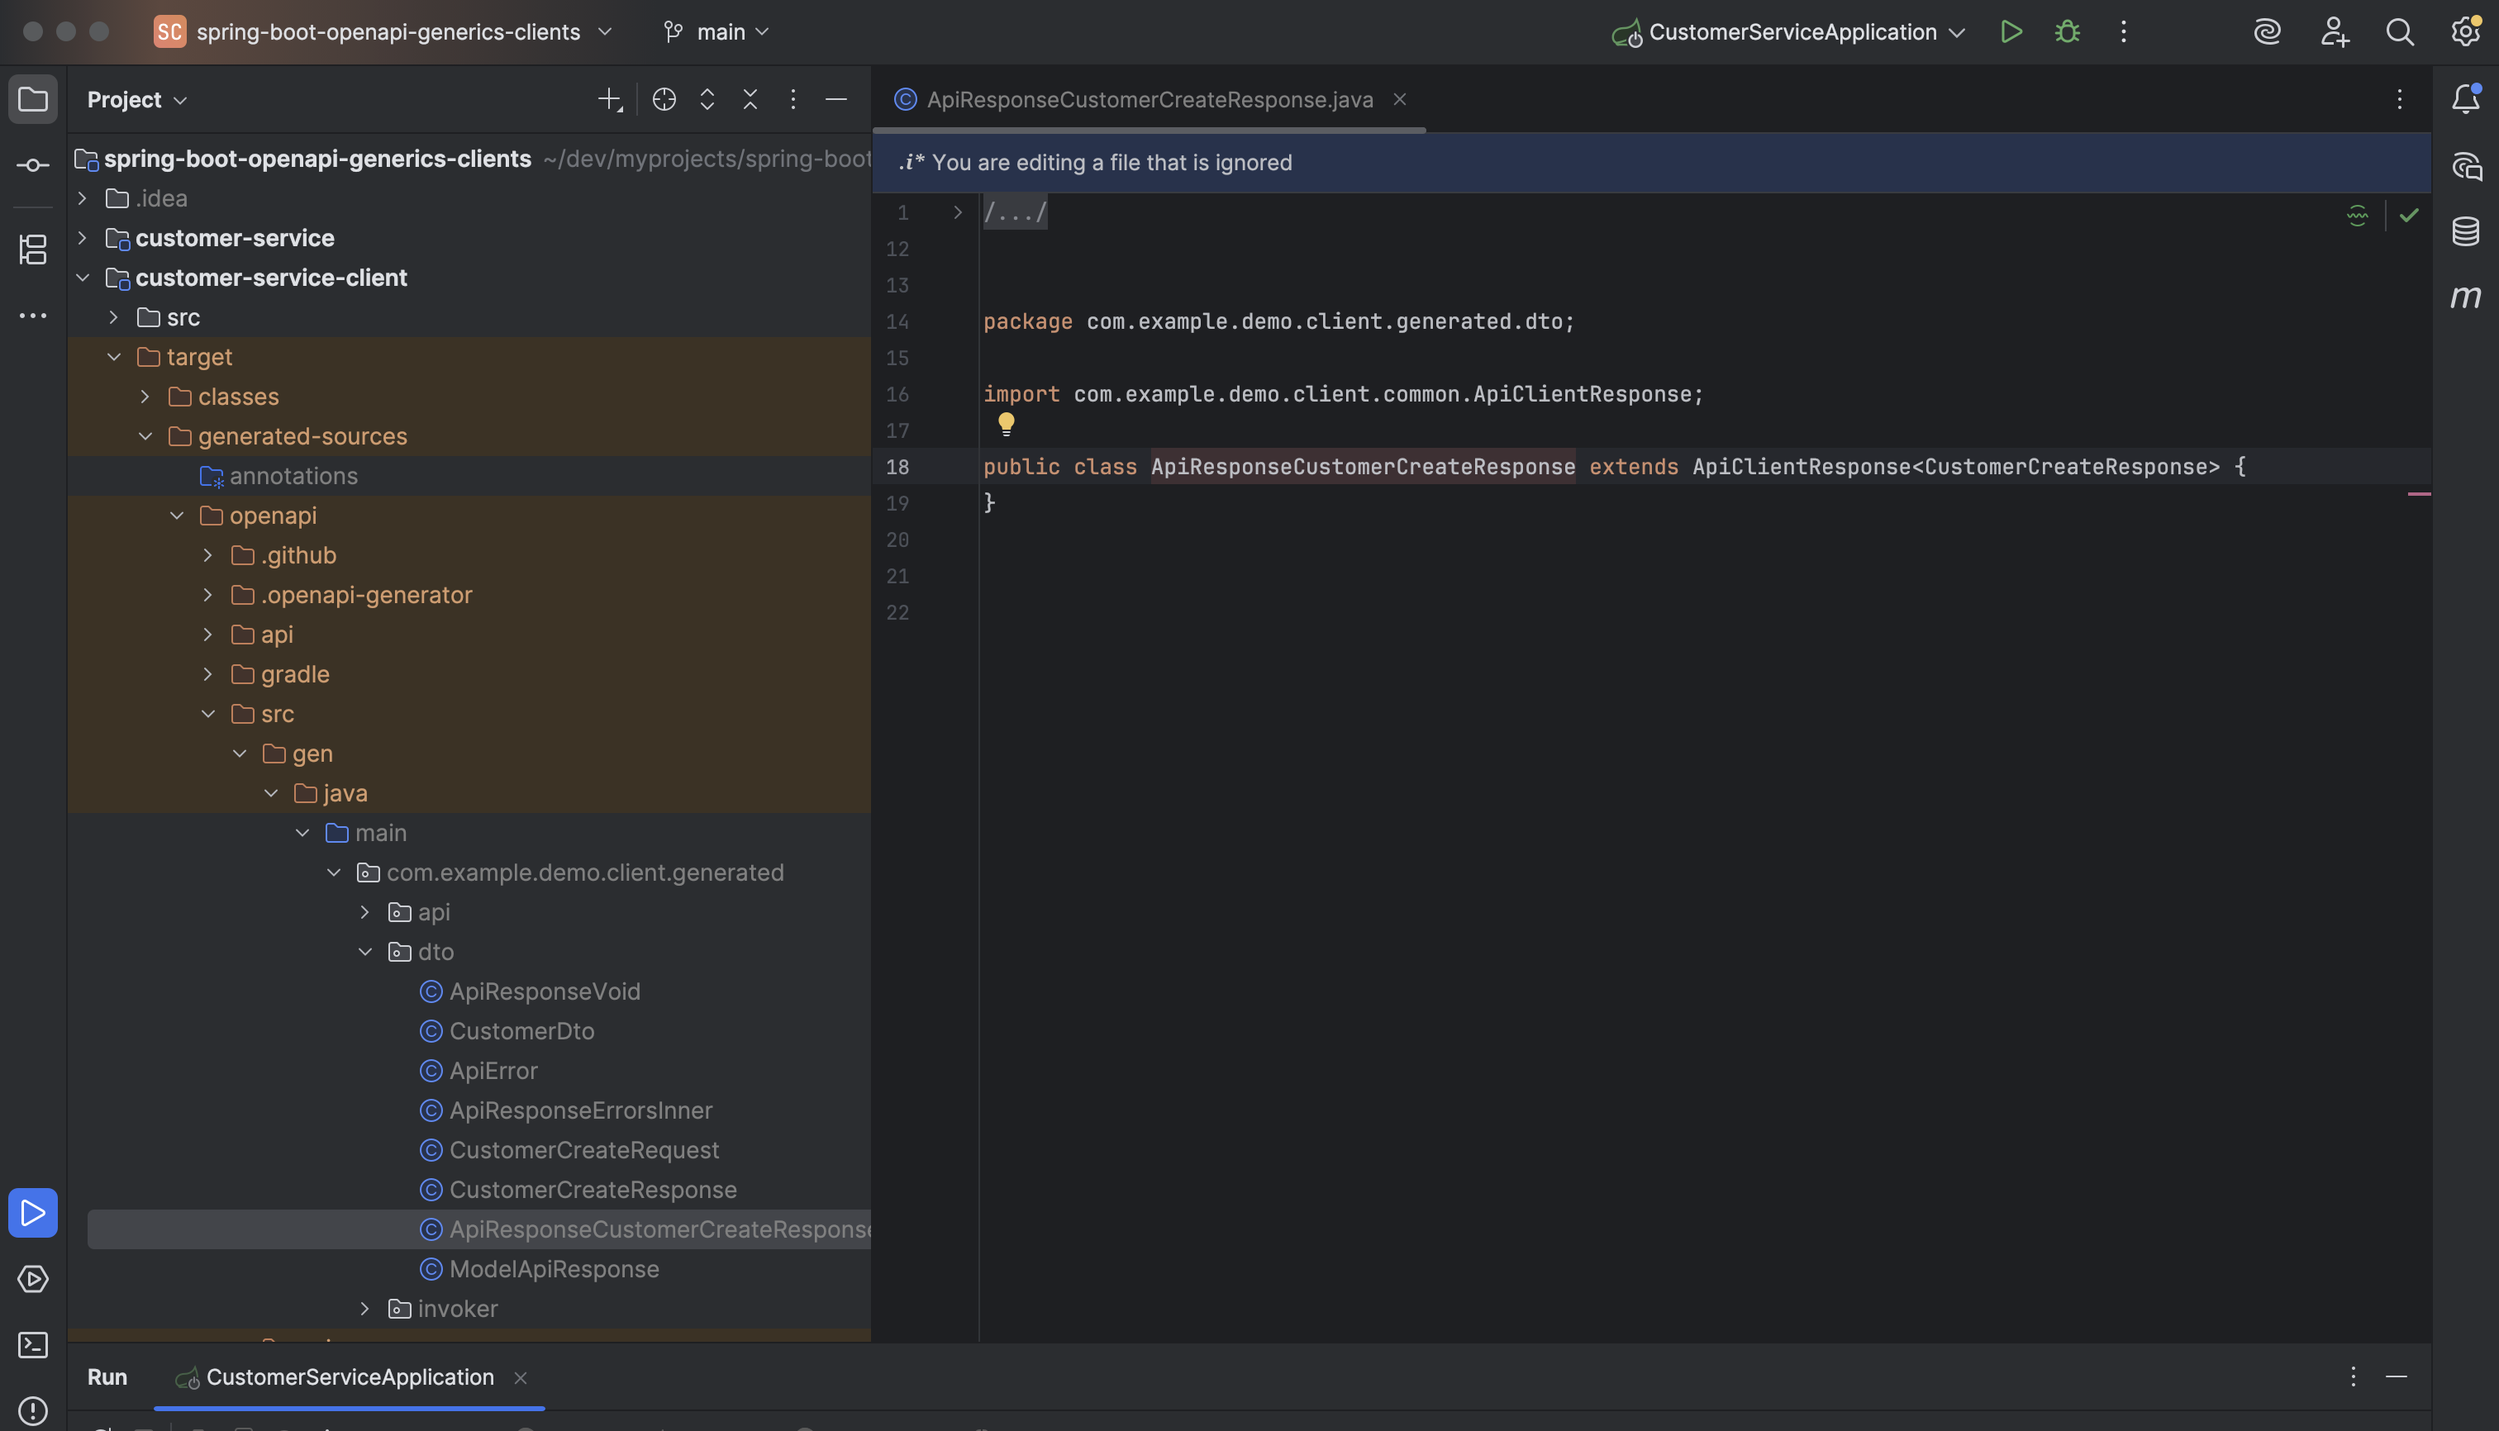
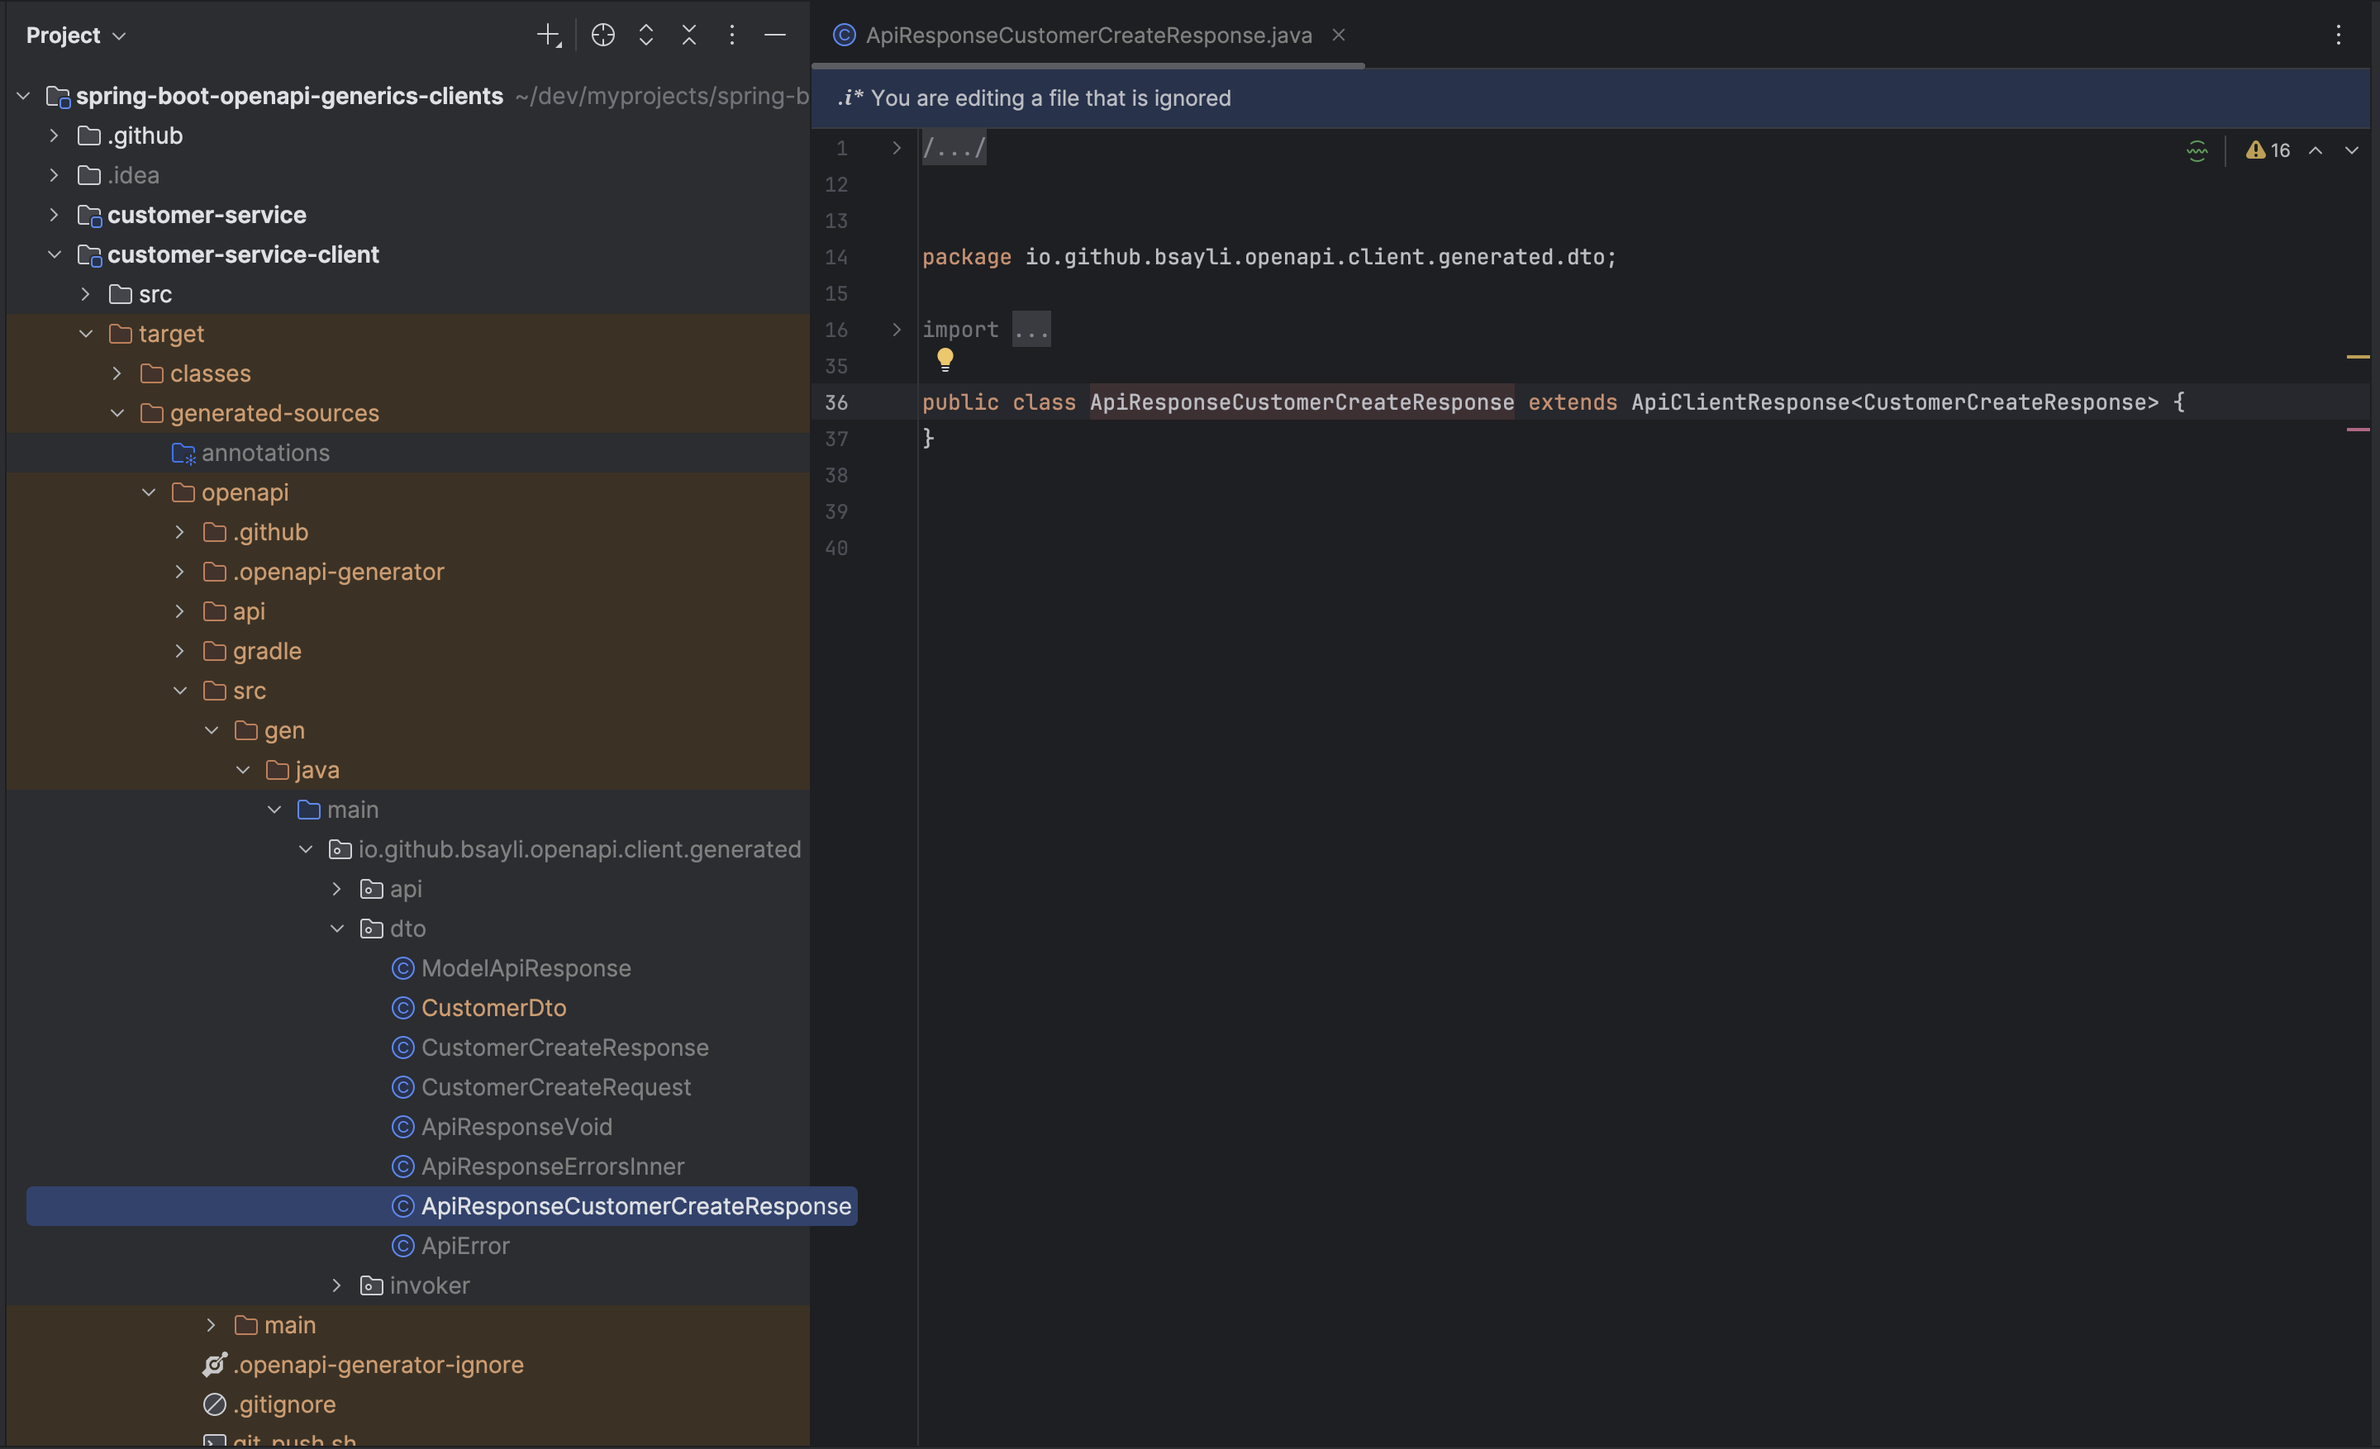
refactor(client): migrate to io.github.bsayli namespace and update docs
- Moved all packages from com.example.demo.client → io.github.bsayli.openapi.client
- Updated pom.xml with new groupId and OpenAPI generator package paths
- Adjusted api_wrapper.mustache to use FQN base class
- Fixed OpenAPI spec (201 response, server URL) for alignment with demo service
- Updated README.md to reflect new package structure and usage examples
- Replaced generated-client-wrapper.png with updated image reflecting new namespace

diff --git a/customer-service-client/src/main/java/io/github/bsayli/openapi/client/adapter/impl/CustomerClientAdapterImpl.java b/customer-service-client/src/main/java/io/github/bsayli/openapi/client/adapter/impl/CustomerClientAdapterImpl.java
@@ -1,10 +1,10 @@
-package com.example.demo.client.adapter.impl;
+package io.github.bsayli.openapi.client.adapter.impl;
 
-import com.example.demo.client.adapter.CustomerClientAdapter;
-import com.example.demo.client.common.ApiClientResponse;
-import com.example.demo.client.generated.api.CustomerControllerApi;
-import com.example.demo.client.generated.dto.CustomerCreateRequest;
-import com.example.demo.client.generated.dto.CustomerCreateResponse;
+import io.github.bsayli.openapi.client.adapter.CustomerClientAdapter;
+import io.github.bsayli.openapi.client.common.ApiClientResponse;
+import io.github.bsayli.openapi.client.generated.api.CustomerControllerApi;
+import io.github.bsayli.openapi.client.generated.dto.CustomerCreateRequest;
+import io.github.bsayli.openapi.client.generated.dto.CustomerCreateResponse;
 import org.springframework.stereotype.Service;
 
 @Service

diff --git a/customer-service-client/src/test/java/io/github/bsayli/openapi/client/adapter/CustomerClientIT.java b/customer-service-client/src/test/java/io/github/bsayli/openapi/client/adapter/CustomerClientIT.java
@@ -1,8 +1,8 @@
-package com.example.demo.client.adapter;
+package io.github.bsayli.openapi.client.adapter;
 
-import com.example.demo.client.adapter.config.CustomerApiClientConfig;
-import com.example.demo.client.generated.api.CustomerControllerApi;
-import com.example.demo.client.generated.dto.CustomerCreateRequest;
+import io.github.bsayli.openapi.client.adapter.config.CustomerApiClientConfig;
+import io.github.bsayli.openapi.client.generated.api.CustomerControllerApi;
+import io.github.bsayli.openapi.client.generated.dto.CustomerCreateRequest;
 import okhttp3.mockwebserver.MockResponse;
 import okhttp3.mockwebserver.MockWebServer;
 import org.junit.jupiter.api.AfterAll;

diff --git a/customer-service-client/src/main/java/io/github/bsayli/openapi/client/adapter/config/CustomerApiClientConfig.java b/customer-service-client/src/main/java/io/github/bsayli/openapi/client/adapter/config/CustomerApiClientConfig.java
@@ -1,7 +1,7 @@
-package com.example.demo.client.adapter.config;
+package io.github.bsayli.openapi.client.adapter.config;
 
-import com.example.demo.client.generated.api.CustomerControllerApi;
-import com.example.demo.client.generated.invoker.ApiClient;
+import io.github.bsayli.openapi.client.generated.api.CustomerControllerApi;
+import io.github.bsayli.openapi.client.generated.invoker.ApiClient;
 import org.springframework.beans.factory.annotation.Value;
 import org.springframework.context.annotation.Bean;
 import org.springframework.context.annotation.Configuration;

diff --git a/customer-service-client/src/main/java/io/github/bsayli/openapi/client/adapter/CustomerClientAdapter.java b/customer-service-client/src/main/java/io/github/bsayli/openapi/client/adapter/CustomerClientAdapter.java
@@ -1,0 +1,9 @@
+package io.github.bsayli.openapi.client.adapter;
+
+import io.github.bsayli.openapi.client.common.ApiClientResponse;
+import io.github.bsayli.openapi.client.generated.dto.CustomerCreateRequest;
+import io.github.bsayli.openapi.client.generated.dto.CustomerCreateResponse;
+
+public interface CustomerClientAdapter {
+    ApiClientResponse<CustomerCreateResponse> create(CustomerCreateRequest request);
+}

diff --git a/customer-service-client/src/main/java/io/github/bsayli/openapi/client/common/ApiClientError.java b/customer-service-client/src/main/java/io/github/bsayli/openapi/client/common/ApiClientError.java
@@ -1,4 +1,4 @@
-package com.example.demo.client.common;
+package io.github.bsayli.openapi.client.common;
 
 public record ApiClientError(String errorCode, String message) {
 }

diff --git a/customer-service-client/src/main/java/io/github/bsayli/openapi/client/common/ApiClientResponse.java b/customer-service-client/src/main/java/io/github/bsayli/openapi/client/common/ApiClientResponse.java
@@ -1,4 +1,4 @@
-package com.example.demo.client.common;
+package io.github.bsayli.openapi.client.common;
 
 import java.util.List;
 import java.util.Objects;

diff --git a/customer-service-client/README.md b/customer-service-client/README.md
@@ -1,25 +1,22 @@
 # customer-service-client
 
-Generated Java client for the demo **customer-service**, showcasing **type‑safe generic responses** with OpenAPI + a tiny custom template (wrapping payloads in a reusable `ApiClientResponse<T>`).
+Generated Java client for the demo **customer-service**, showcasing **type‑safe generic responses** with OpenAPI + a custom Mustache template (wrapping payloads in a reusable `ApiClientResponse<T>`).
+
+This module demonstrates how to evolve OpenAPI Generator with minimal customization to support generic response envelopes — avoiding duplicated wrappers and preserving strong typing.
 
 ---
 
-## ✅ What you get
+## ✅ What You Get
 
-* Generated code using **OpenAPI Generator** (`restclient` with Spring Framework `RestClient`)
-* A thin wrapper class per endpoint (e.g. `ApiResponseCustomerCreateResponse`) that **extends**:
-
-    * `src/main/java/com/example/demo/client/common/ApiClientResponse.java`
-* Minimal Spring wiring to expose the generated API as beans:
-
-    * `com.example.demo.client.adapter.config.CustomerApiClientConfig`
-* A focused integration test with **OkHttp MockWebServer**:
-
-    * `com.example.demo.client.adapter.CustomerClientIT`
+* Generated code using **OpenAPI Generator** (`restclient` with Spring Framework `RestClient`).
+* A reusable generic base: `io.github.bsayli.openapi.client.common.ApiClientResponse<T>`.
+* Thin wrappers per endpoint (e.g. `ApiResponseCustomerCreateResponse`) that extend the base.
+* Spring Boot configuration to auto‑expose the client as beans.
+* A focused integration test using **OkHttp MockWebServer**.
 
 ---
 
-## 🧪 Quick pipeline (3 steps)
+## 🚀 Quick Pipeline (3 Steps)
 
 1. **Run the sample service**
 
@@ -37,15 +34,13 @@ curl -s http://localhost:8084/customer/v3/api-docs.yaml \
   -o src/main/resources/customer-api-docs.yaml
 ```
 
-> You can also skip this if the spec is already checked in.
-
 3. **Generate & build the client**
 
 ```bash
 mvn clean install
 ```
 
-Generated sources will land under:
+Generated sources will be placed under:
 
 ```
 target/generated-sources/openapi/src/gen/java/main
@@ -53,15 +48,16 @@ target/generated-sources/openapi/src/gen/java/main
 
 ---
 
-## 🚀 Using the client in your application
+## 🧩 Using the Client
 
-### Option A — Spring configuration (recommended)
+### Option A — Spring Configuration (recommended)
 
-Add this module as a dependency and set the base URL. The module contributes a small configuration:
+Include this module as a dependency and configure the base URL:
 
 ```java
 @Configuration
 public class CustomerApiClientConfig {
+
   @Bean
   public RestClient customerRestClient(RestClient.Builder builder,
                                        @Value("${customer.api.base-url}") String baseUrl) {
@@ -69,86 +65,127 @@ public class CustomerApiClientConfig {
   }
 
   @Bean
-  public com.example.demo.client.generated.invoker.ApiClient customerApiClient(
+  public io.github.bsayli.openapi.client.generated.invoker.ApiClient customerApiClient(
       RestClient customerRestClient,
       @Value("${customer.api.base-url}") String baseUrl) {
-    return new com.example.demo.client.generated.invoker.ApiClient(customerRestClient)
+    return new io.github.bsayli.openapi.client.generated.invoker.ApiClient(customerRestClient)
         .setBasePath(baseUrl);
   }
 
   @Bean
-  public com.example.demo.client.generated.api.CustomerControllerApi customerControllerApi(
-      com.example.demo.client.generated.invoker.ApiClient apiClient) {
-    return new com.example.demo.client.generated.api.CustomerControllerApi(apiClient);
+  public io.github.bsayli.openapi.client.generated.api.CustomerControllerApi customerControllerApi(
+      io.github.bsayli.openapi.client.generated.invoker.ApiClient apiClient) {
+    return new io.github.bsayli.openapi.client.generated.api.CustomerControllerApi(apiClient);
   }
 }
 ```
 
-**Configure the base URL** in your app:
+**application.properties:**
 
 ```properties
 customer.api.base-url=http://localhost:8084/customer
 ```
 
-**Call the API**:
+**Usage example:**
 
 ```java
 @Autowired
-private com.example.demo.client.generated.api.CustomerControllerApi customerApi;
+private io.github.bsayli.openapi.client.generated.api.CustomerControllerApi customerApi;
 
 public void createCustomer() {
-  var req = new com.example.demo.client.generated.dto.CustomerCreateRequest()
+  var req = new io.github.bsayli.openapi.client.generated.dto.CustomerCreateRequest()
       .name("Jane Doe")
       .email("jane@example.com");
 
   var resp = customerApi.create(req); // ApiResponseCustomerCreateResponse
+
   System.out.println(resp.getStatus());                 // 201
   System.out.println(resp.getData().getCustomer().getName()); // "Jane Doe"
 }
 ```
 
-### Option B — Manual wiring (no Spring context)
+### Option B — Manual Wiring (no Spring context)
 
 ```java
 var rest = RestClient.builder().baseUrl("http://localhost:8084/customer").build();
-var apiClient = new com.example.demo.client.generated.invoker.ApiClient(rest)
+var apiClient = new io.github.bsayli.openapi.client.generated.invoker.ApiClient(rest)
     .setBasePath("http://localhost:8084/customer");
-var customerApi = new com.example.demo.client.generated.api.CustomerControllerApi(apiClient);
+var customerApi = new io.github.bsayli.openapi.client.generated.api.CustomerControllerApi(apiClient);
 ```
 
 ---
 
-## 🧩 How the generics work
+## 🧩 Adapter Pattern Example
 
-The template at `src/main/resources/openapi-templates/api_wrapper.mustache` emits thin wrappers like:
+For larger applications, encapsulate the generated API in an adapter:
 
 ```java
-// e.g., ApiResponseCustomerCreateResponse
-public class ApiResponseCustomerCreateResponse
-    extends com.example.demo.client.common.ApiClientResponse<CustomerCreateResponse> { }
+package io.github.bsayli.openapi.client.adapter.impl;
+
+import io.github.bsayli.openapi.client.adapter.CustomerClientAdapter;
+import io.github.bsayli.openapi.client.common.ApiClientResponse;
+import io.github.bsayli.openapi.client.generated.api.CustomerControllerApi;
+import io.github.bsayli.openapi.client.generated.dto.CustomerCreateRequest;
+import io.github.bsayli.openapi.client.generated.dto.CustomerCreateResponse;
+import org.springframework.stereotype.Service;
+
+@Service
+public class CustomerClientAdapterImpl implements CustomerClientAdapter {
+
+    private final CustomerControllerApi customerControllerApi;
+
+    public CustomerClientAdapterImpl(CustomerControllerApi customerControllerApi) {
+        this.customerControllerApi = customerControllerApi;
+    }
+
+    @Override
+    public ApiClientResponse<CustomerCreateResponse> create(CustomerCreateRequest request) {
+        return customerControllerApi.create(request);
+    }
+}
 ```
 
-Only `api_wrapper.mustache` is customized for this demo; **all other models** use the stock templates/behavior.
+This ensures:
+
+* Generated code stays isolated.
+* Business code depends only on the adapter interface.
+
+---
+
+## 🧩 How the Generics Work
+
+The template at `src/main/resources/openapi-templates/api_wrapper.mustache` emits wrappers like:
+
+```java
+import io.github.bsayli.openapi.client.common.ApiClientResponse;
+
+// e.g., ApiResponseCustomerCreateResponse
+public class ApiResponseCustomerCreateResponse
+        extends ApiClientResponse<CustomerCreateResponse> {
+}
+```
+
+Only this Mustache partial is customized. All other models use stock templates.
 
 ---
 
 ## 🧪 Tests
 
-Run the integration-style test with MockWebServer:
+Integration test with MockWebServer:
 
 ```bash
 mvn -q -DskipITs=false test
 ```
 
-It enqueues a `201` response and asserts mapping into `ApiResponseCustomerCreateResponse`.
+It enqueues a `201` response and asserts correct mapping into `ApiResponseCustomerCreateResponse`.
 
 ---
 
 ## 📚 Notes
 
-* Dependencies like `spring-web`, `spring-context`, `jackson-*`, `jakarta.*` are marked **provided**. Your host app supplies them.
+* Dependencies like `spring-web`, `spring-context`, `jackson-*`, `jakarta.*` are marked **provided**; your host app supplies them.
 * Generator options: Spring 6 `RestClient`, Jakarta EE, Jackson, Java 21.
-* OpenAPI spec path used by the build:
+* OpenAPI spec path:
 
 ```
 src/main/resources/customer-api-docs.yaml
@@ -158,4 +195,4 @@ src/main/resources/customer-api-docs.yaml
 
 ## 🛡 License
 
-This repository is licensed under **MIT** (root `LICENSE`). Submodules don’t duplicate license files; the root license applies.
+This repository is licensed under **MIT** (root `LICENSE`). Submodules inherit the license.
